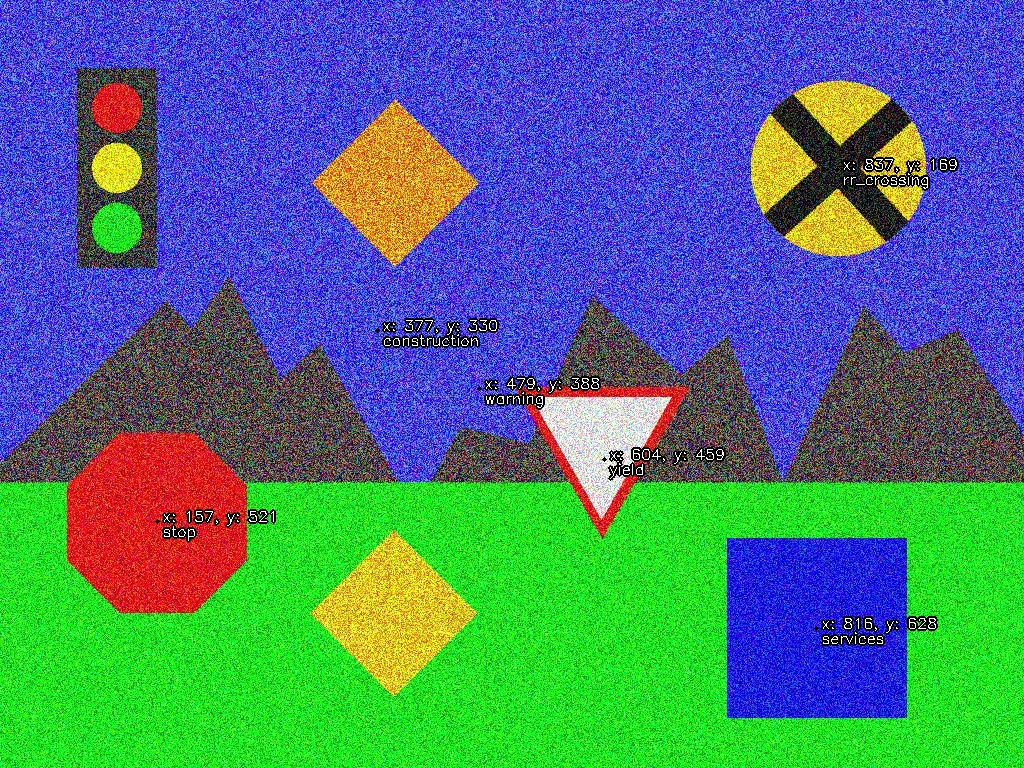
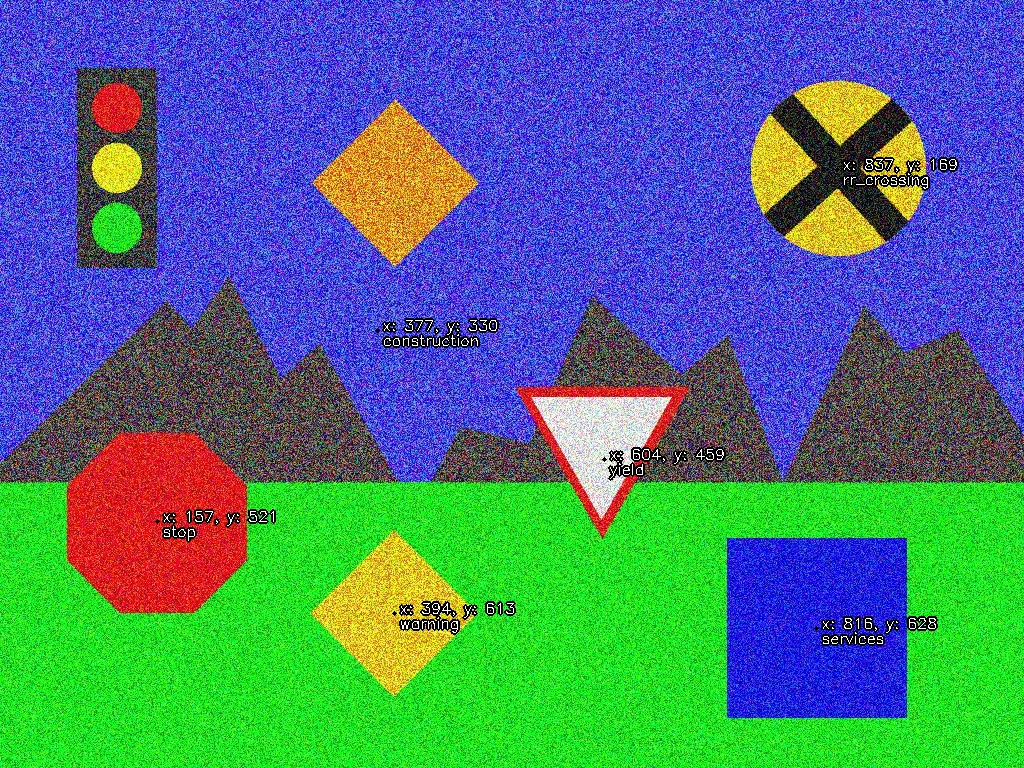
warning_fix

Changed region(s): [[0.4688, 0.4688, 0.5938, 0.5312], [0.375, 0.7812, 0.5, 0.8438]]

diff --git a/homework/hw2/hw2.py b/homework/hw2/hw2.py
@@ -182,11 +182,6 @@ def identify_stop_sign(img: np.ndarray) -> tuple:
     mask2 = cv2.inRange(hsv, lower_red2, upper_red2)
     mask = cv2.bitwise_or(mask1, mask2)
 
-    # Apply morphological operations to remove noise
-    kernel = cv2.getStructuringElement(cv2.MORPH_ELLIPSE, (5, 5))
-    mask = cv2.morphologyEx(mask, cv2.MORPH_CLOSE, kernel)
-    mask = cv2.morphologyEx(mask, cv2.MORPH_OPEN, kernel)
-
     # Find contours in the mask
     contours, _ = cv2.findContours(mask, cv2.RETR_EXTERNAL, cv2.CHAIN_APPROX_SIMPLE)
 
@@ -321,34 +316,36 @@ def identify_warning(img: np.ndarray) -> tuple:
     # Convert the image to HSV
     hsv = cv2.cvtColor(img_cp, cv2.COLOR_BGR2HSV)
 
-    # # Define orange color range
-    # lower_orange = np.array([5, 100, 100])
-    # upper_orange = np.array([20, 255, 255])
     # Define yellow color range
     lower_yellow = np.array([20, 100, 100])
-    upper_yellow = np.array([25, 255, 255])
+    upper_yellow = np.array([30, 255, 255])
 
-    # Define yellow color range
+    # Create a mask for the yellow color
     mask = cv2.inRange(hsv, lower_yellow, upper_yellow)
 
     # Apply the mask to the image
     masked_img = cv2.bitwise_and(img_cp, img_cp, mask=mask)
 
-    # show_image("", masked_img)
+    # Detect contours from the masked image
+    contours, _ = cv2.findContours(mask, cv2.RETR_EXTERNAL, cv2.CHAIN_APPROX_SIMPLE)
 
-    # Detect sign lines from the masked image
-    lines = sign_lines(masked_img)
+    for contour in contours:
+        # Approximate the contour to a polygon
+        epsilon = 0.02 * cv2.arcLength(contour, True)
+        approx = cv2.approxPolyDP(contour, epsilon, True)
 
-    if lines is not None:
-        # Get x and y coordinates from detected lines
-        x, y = sign_axis(lines)
+        # Check if the shape is a triangle (3 sides) or diamond-like (4 sides)
+        num_sides = len(approx)
+        if num_sides == 3 or (num_sides == 4 and cv2.isContourConvex(approx)):
+            # Get the bounding box to calculate center
+            x, y, w, h = cv2.boundingRect(contour)
+            center_x = x + w // 2
+            center_y = y + h // 2
 
-        # Calculate the average position
-        if len(x) > 0 and len(y) > 0:
-            avg_x = np.mean(x).astype(int)
-            avg_y = np.mean(y).astype(int)
-
-            return avg_x, avg_y, 'warning'
+            # Check area size to filter out small contours
+            area = cv2.contourArea(contour)
+            if area > 500:  # Example threshold for area
+                return center_x, center_y, 'warning'
 
     return 0, 0, 'None'
 
